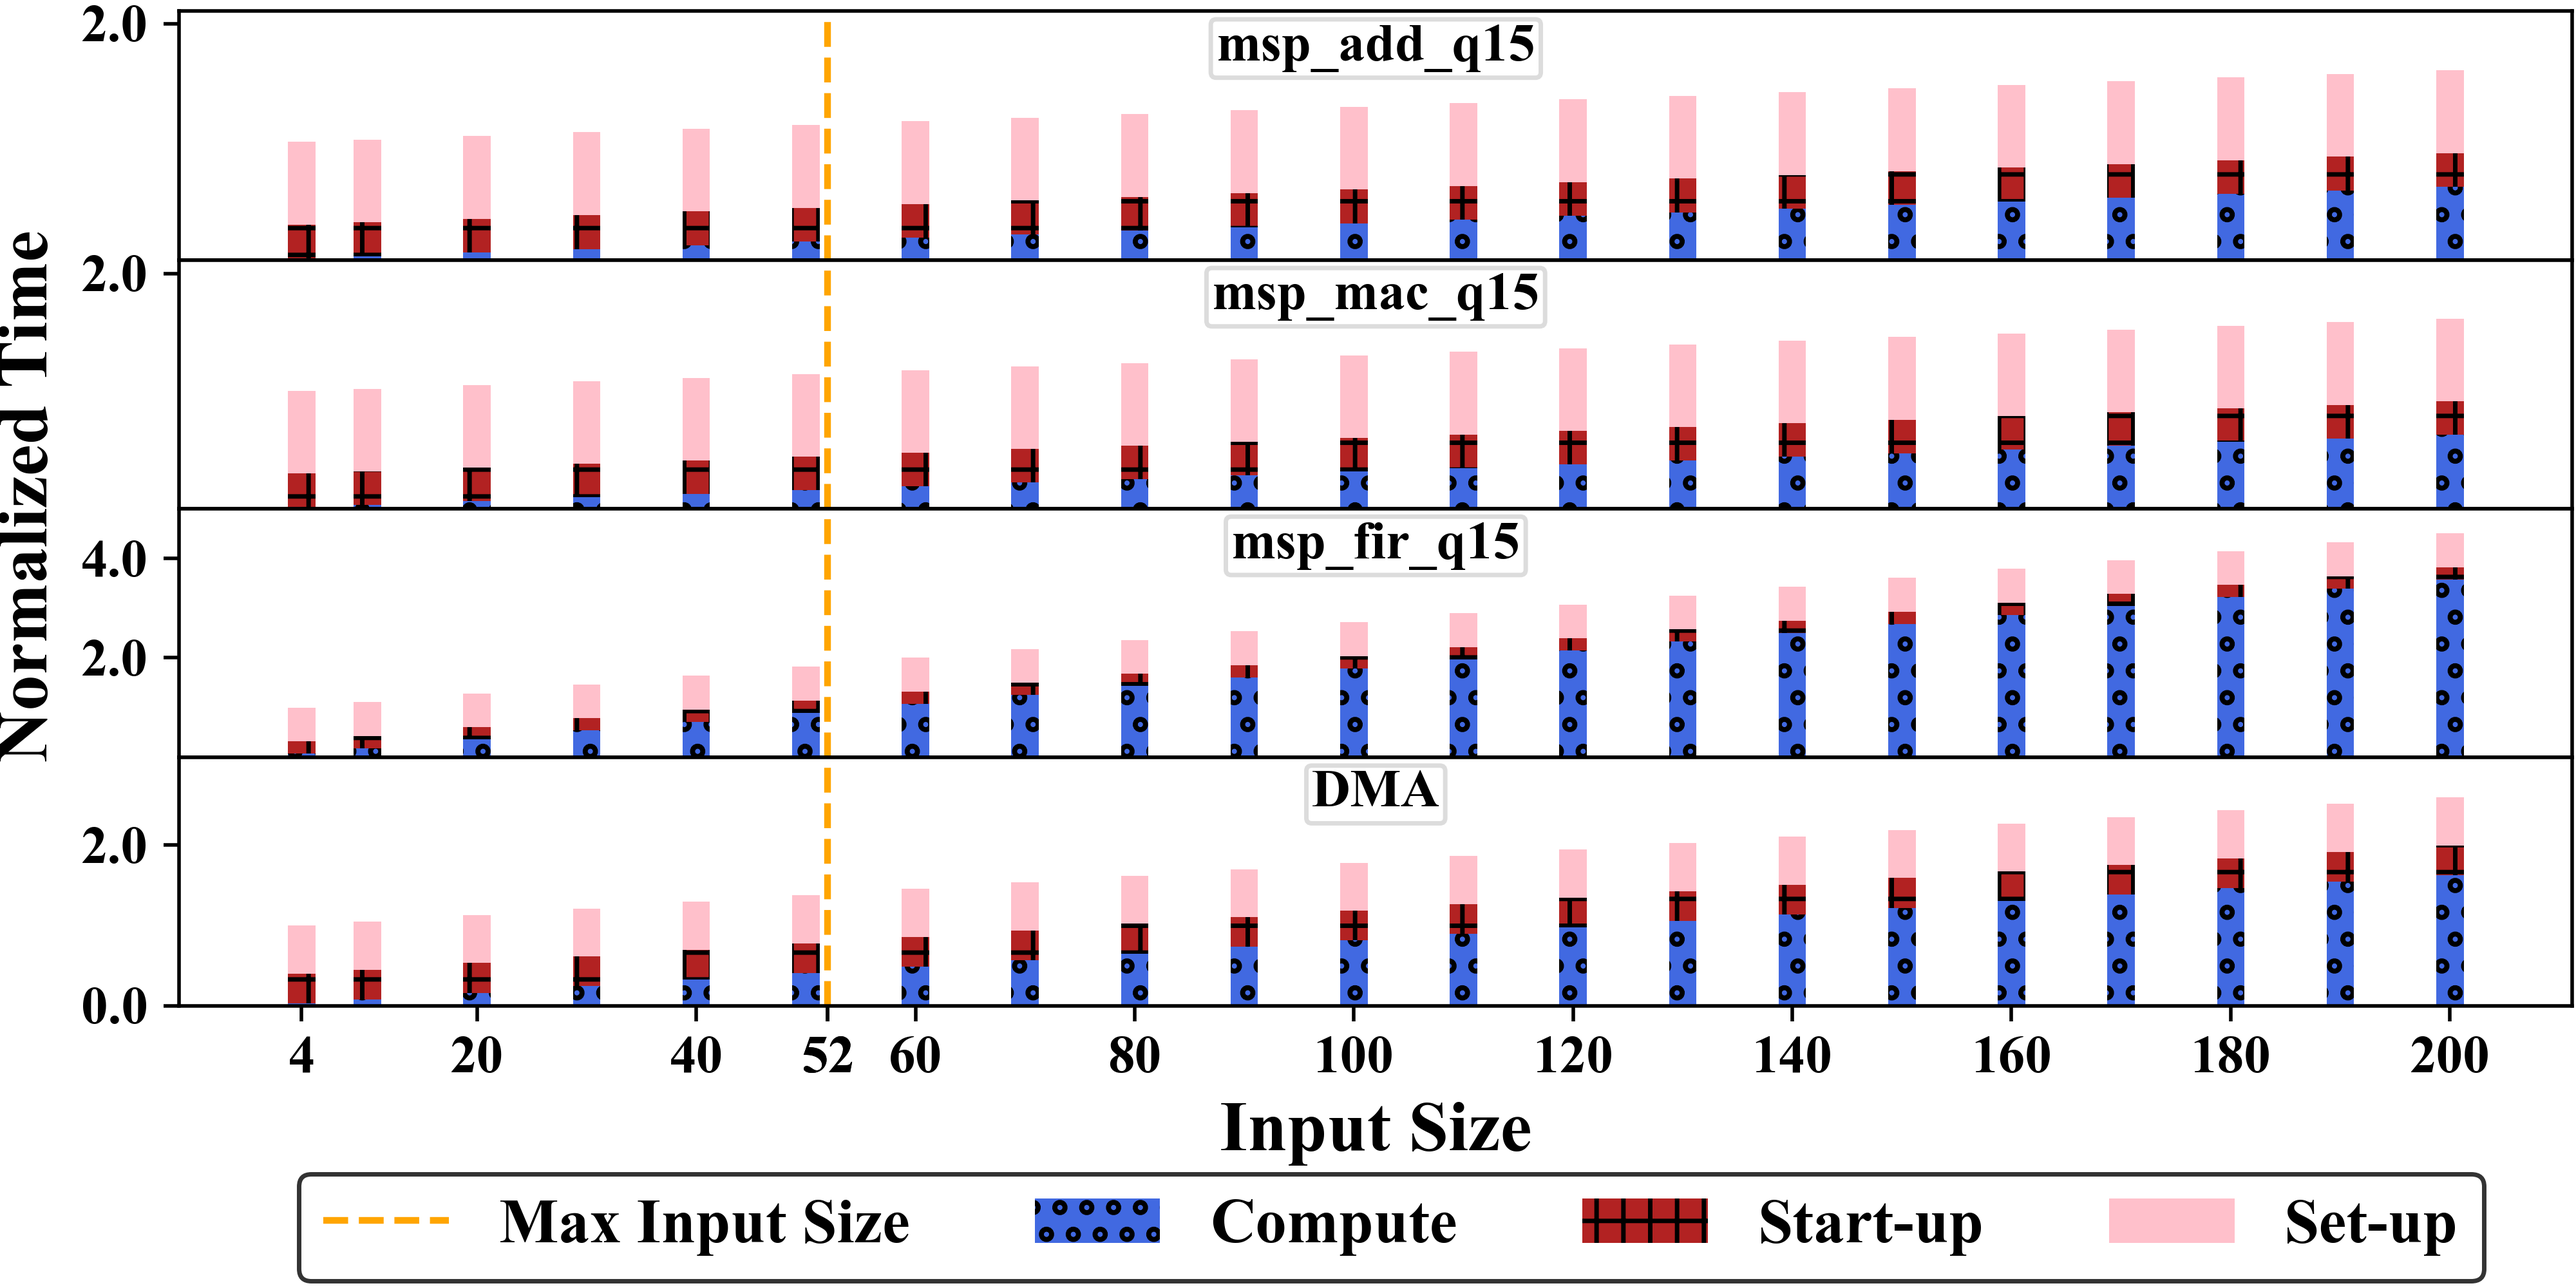
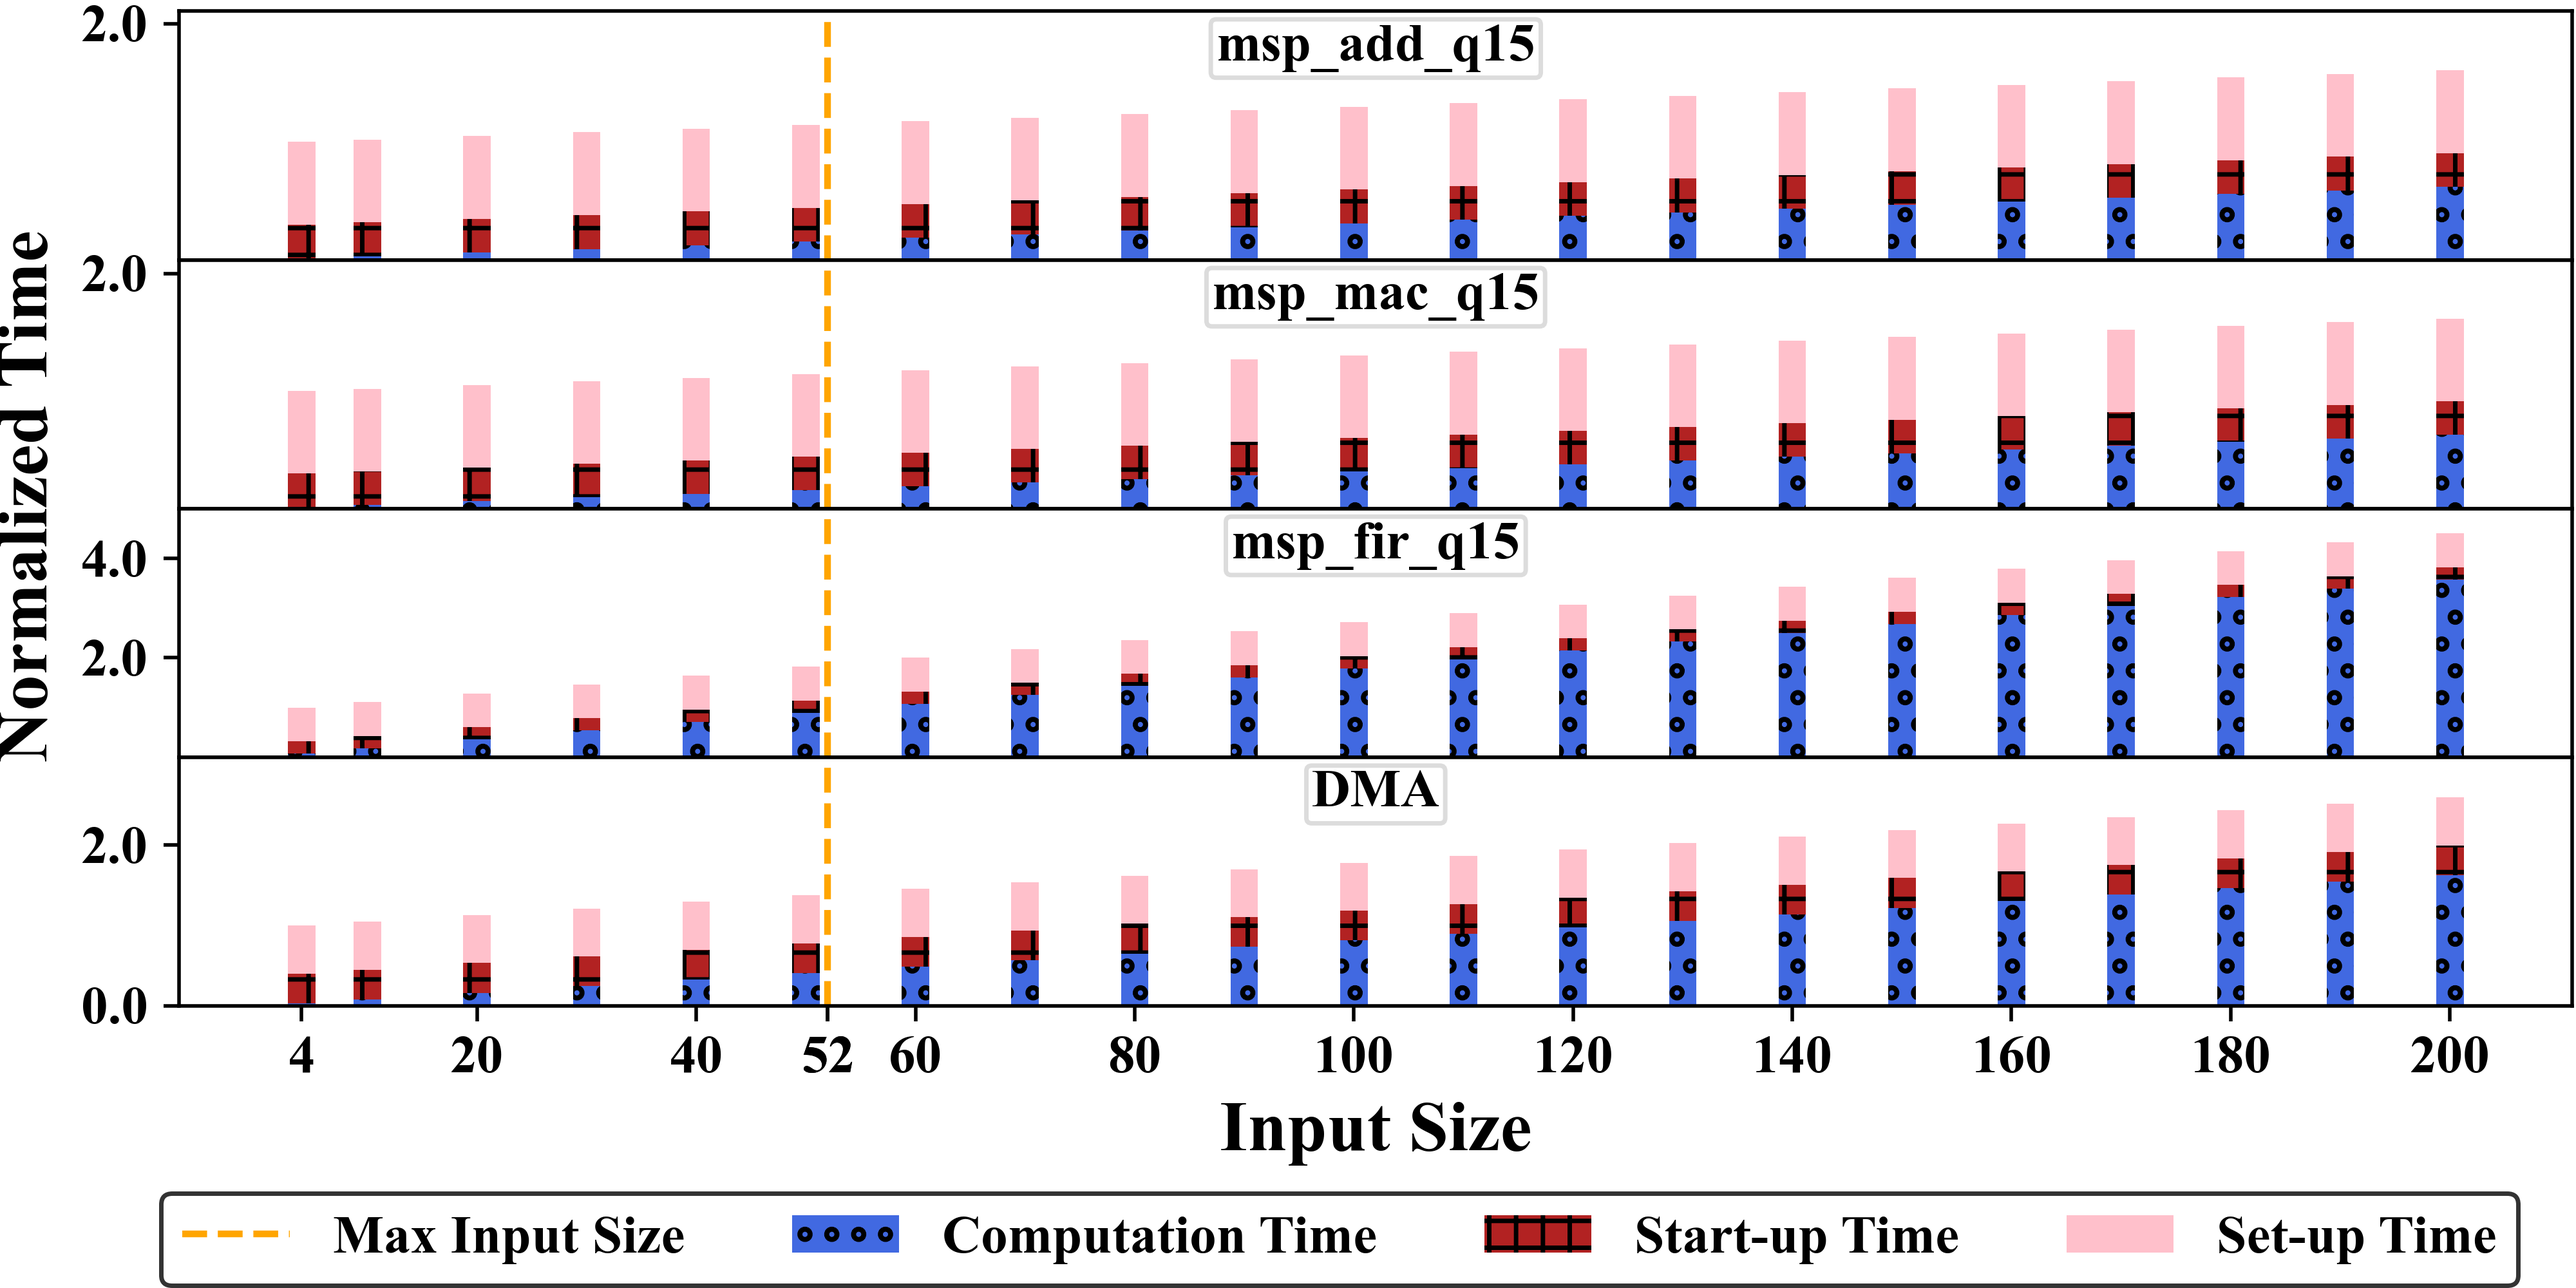
update

Changed region(s): [[0.0625, 0.899, 1.0, 1.0]]

diff --git a/apps/lea_op_bench/logs/plot.py b/apps/lea_op_bench/logs/plot.py
@@ -87,9 +87,9 @@ for i, (key, values) in enumerate(log_data.items()):
     core_label = None
     total_label = None
     if key == 'DMA':
-        st_time = 'Start-up'
-        core_label = 'Compute'
-        total_label = 'Set-up'
+        st_time = 'Start-up Time'
+        core_label = 'Computation Time'
+        total_label = 'Set-up Time'
 
     axes[i].bar(sizes, real_norm_core_times, bar_width, label=core_label, color='royalblue', hatch='oo')
     axes[i].bar(sizes, constant, bar_width, label=st_time, bottom=real_norm_core_times, color='firebrick', hatch='++')
@@ -163,7 +163,7 @@ for i, (key, values) in enumerate(log_data.items()):
 
 fig.legend(
     loc='lower center', ncol=4,
-    fontsize=14, bbox_to_anchor=(0.54, -0.019),
+    fontsize=12, bbox_to_anchor=(0.52, -0.019),
     edgecolor='black'
 )
 fig.tight_layout(pad=0.05, rect=[0.03, 0.09, 1, 1])
